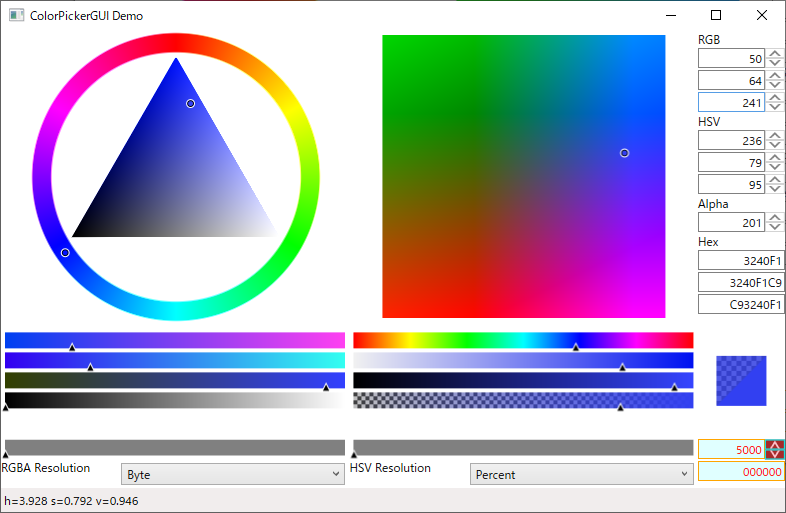
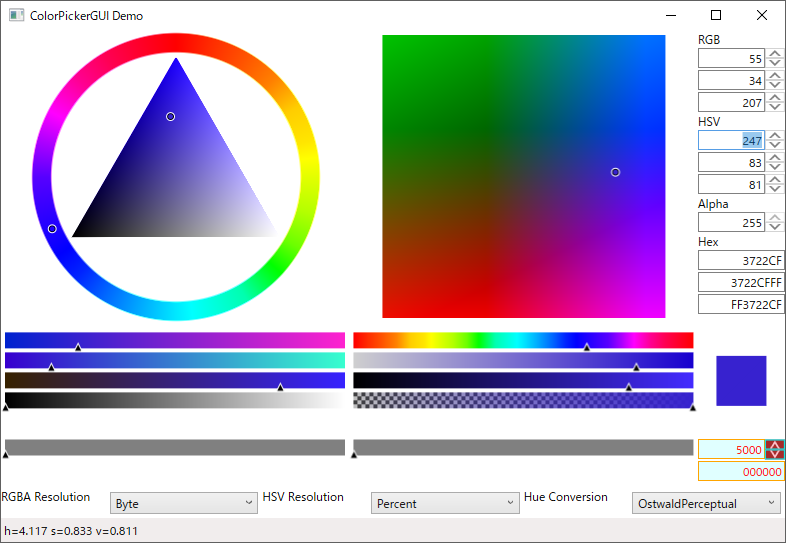
fix: demo

diff --git a/ColorPickerGUITest/MainWindow.xaml b/ColorPickerGUITest/MainWindow.xaml
@@ -9,7 +9,7 @@
     xmlns:sys="clr-namespace:System;assembly=mscorlib"
     Title="ColorPickerGUI Demo"
     Width="800"
-    Height="520"
+    Height="550"
     MinWidth="400"
     MinHeight="250"
     mc:Ignorable="d">
@@ -19,11 +19,20 @@
 
     <Window.Resources>
         <ObjectDataProvider
-            x:Key="EnumDataSource"
+            x:Key="EnumResolutionModeSource"
             MethodName="GetValues"
             ObjectType="{x:Type sys:Enum}">
             <ObjectDataProvider.MethodParameters>
                 <x:Type TypeName="colorpicker:NumericBoxResolutionMode" />
+            </ObjectDataProvider.MethodParameters>
+        </ObjectDataProvider>
+
+        <ObjectDataProvider
+            x:Key="EnumHueConversionSource"
+            MethodName="GetValues"
+            ObjectType="{x:Type sys:Enum}">
+            <ObjectDataProvider.MethodParameters>
+                <x:Type TypeName="colorpicker:HueConversionMode" />
             </ObjectDataProvider.MethodParameters>
         </ObjectDataProvider>
     </Window.Resources>
@@ -31,6 +40,7 @@
     <Grid>
         <Grid.RowDefinitions>
             <RowDefinition Height="*" />
+            <RowDefinition Height="30" />
             <RowDefinition Height="24" />
         </Grid.RowDefinitions>
 
@@ -55,6 +65,7 @@
                     Grid.Row="0"
                     Grid.Column="0"
                     HSVColorChanged="HSVColorPicker_HSVColorChanged"
+                    HueConversionMode="{Binding HueConversionMode}"
                     SelectedColor="{Binding SelectedHSV}" />
                 <colorpicker:YCbCrColorPicker
                     x:Name="YCbCrColorPicker"
@@ -97,6 +108,7 @@
                         x:Name="HueSlider"
                         Height="20"
                         HSVColorChanged="HueSlider_HSVColorChanged"
+                        HueConversionMode="{Binding HueConversionMode}"
                         SelectedColor="{Binding SelectedHSV}" />
                     <colorpicker:SaturationSlider
                         x:Name="SaturationSlider"
@@ -198,20 +210,6 @@
                         Height="20"
                         SliderValueChanged="GraphicalSlider_SliderValueChanged"
                         Value="{Binding SelectedValue}" />
-
-                    <Grid>
-                        <Grid.ColumnDefinitions>
-                            <ColumnDefinition Width="*" />
-                            <ColumnDefinition Width="2*" />
-                        </Grid.ColumnDefinitions>
-
-                        <TextBlock Grid.Column="0">RGBA Resolution</TextBlock>
-                        <ComboBox
-                            Grid.Column="1"
-                            Margin="4"
-                            ItemsSource="{Binding Source={StaticResource EnumDataSource}}"
-                            SelectedItem="{Binding RGBResolutionMode}" />
-                    </Grid>
                 </StackPanel>
 
                 <StackPanel
@@ -222,22 +220,7 @@
                         Height="20"
                         SliderValueChanged="GraphicalSlider_SliderValueChanged"
                         Value="{Binding SelectedValue}" />
-
-                    <Grid>
-                        <Grid.ColumnDefinitions>
-                            <ColumnDefinition Width="*" />
-                            <ColumnDefinition Width="2*" />
-                        </Grid.ColumnDefinitions>
-
-                        <TextBlock Grid.Column="0">HSV Resolution</TextBlock>
-                        <ComboBox
-                            Grid.Column="1"
-                            Margin="4"
-                            ItemsSource="{Binding Source={StaticResource EnumDataSource}}"
-                            SelectedItem="{Binding HSVResolutionMode}" />
-                    </Grid>
                 </StackPanel>
-
 
                 <StackPanel Grid.Row="4" Grid.Column="2">
                     <colorpicker:NumericBox
@@ -265,7 +248,57 @@
             </Grid>
         </Grid>
 
-        <StatusBar Grid.Row="1">
+        <Grid Grid.Row="1">
+            <Grid.ColumnDefinitions>
+                <ColumnDefinition Width="*" />
+                <ColumnDefinition Width="*" />
+                <ColumnDefinition Width="*" />
+            </Grid.ColumnDefinitions>
+
+            <Grid Grid.Row="0" Grid.Column="0">
+                <Grid.ColumnDefinitions>
+                    <ColumnDefinition Width="2*" />
+                    <ColumnDefinition Width="3*" />
+                </Grid.ColumnDefinitions>
+
+                <TextBlock Grid.Column="0">RGBA Resolution</TextBlock>
+                <ComboBox
+                    Grid.Column="1"
+                    Margin="4"
+                    ItemsSource="{Binding Source={StaticResource EnumResolutionModeSource}}"
+                    SelectedItem="{Binding RGBResolutionMode}" />
+            </Grid>
+
+            <Grid Grid.Row="0" Grid.Column="1">
+                <Grid.ColumnDefinitions>
+                    <ColumnDefinition Width="2*" />
+                    <ColumnDefinition Width="3*" />
+                </Grid.ColumnDefinitions>
+
+                <TextBlock Grid.Column="0">HSV Resolution</TextBlock>
+                <ComboBox
+                    Grid.Column="1"
+                    Margin="4"
+                    ItemsSource="{Binding Source={StaticResource EnumResolutionModeSource}}"
+                    SelectedItem="{Binding HSVResolutionMode}" />
+            </Grid>
+
+            <Grid Grid.Row="0" Grid.Column="2">
+                <Grid.ColumnDefinitions>
+                    <ColumnDefinition Width="2*" />
+                    <ColumnDefinition Width="3*" />
+                </Grid.ColumnDefinitions>
+
+                <TextBlock Grid.Column="0">Hue Conversion</TextBlock>
+                <ComboBox
+                    Grid.Column="1"
+                    Margin="4"
+                    ItemsSource="{Binding Source={StaticResource EnumHueConversionSource}}"
+                    SelectedItem="{Binding HueConversionMode}" />
+            </Grid>
+        </Grid>
+
+        <StatusBar Grid.Row="2">
             <StatusBarItem>
                 <TextBlock x:Name="StatusBar" />
             </StatusBarItem>

diff --git a/ColorPickerGUITest/MainViewModel.cs b/ColorPickerGUITest/MainViewModel.cs
@@ -114,5 +114,15 @@ namespace ColorPickerGUITest {
                 OnPropertyChanged(nameof(HSVResolutionMode));
             }
         }
+
+        private HueConversionMode hue_conversion_mode = HueConversionMode.OstwaldPerceptual;
+        public HueConversionMode HueConversionMode {
+            get => hue_conversion_mode;
+            set {
+                hue_conversion_mode = value;
+
+                OnPropertyChanged(nameof(HueConversionMode));
+            }
+        }
     }
 }
